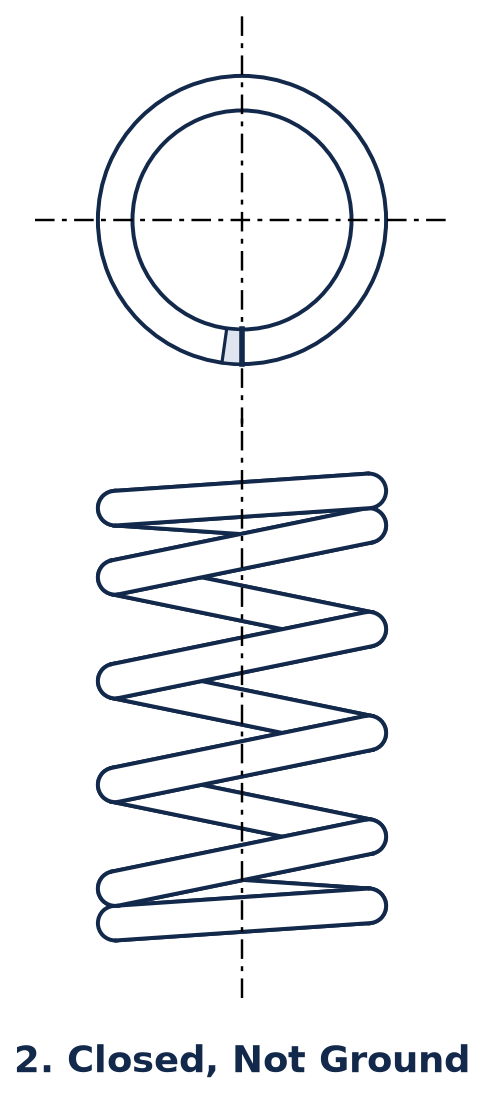
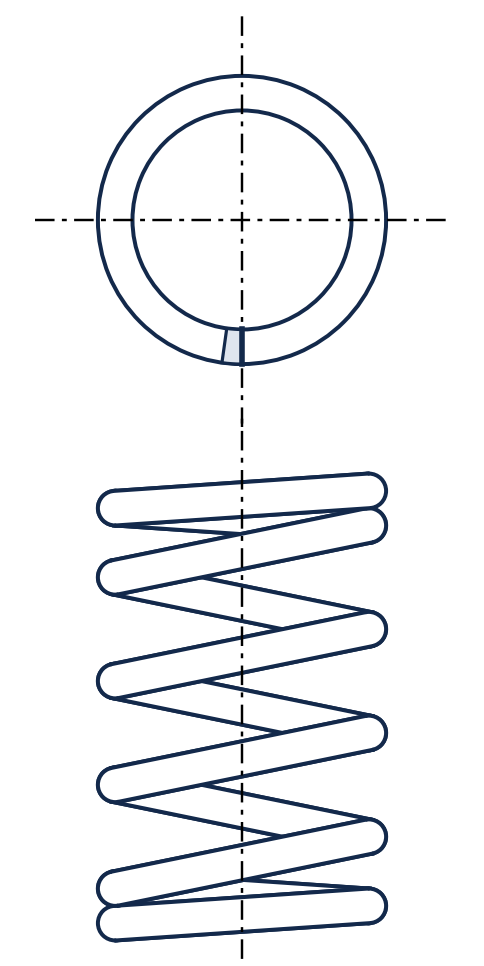
Show one title on smaller end diagrams.

diff --git a/tests/test-help.js b/tests/test-help.js
@@ -170,6 +170,8 @@ const ends = Help.topic("ends").body;
   assert(ends.indexOf("assets/help/" + file) >= 0, "End help shows " + file);
 });
 assert((ends.match(/<img/g) || []).length === 4, "End help has four pictures");
+assert((ends.match(/<figcaption>/g) || []).length === 4, "Each end diagram has one title");
+assert((ends.match(/<h3/g) || []).length === 0, "End diagrams do not add a second heading");
 assert(ends.indexOf("<svg") === -1, "End help uses Yuan's photographs");
 assert(ends.indexOf("The diagrams show the four end types.") >= 0, "End help leaves the explanation to the diagrams");
 assert(ends.indexOf('class="help-zoom"') >= 0 && diameters.indexOf('class="help-zoom"') >= 0,
@@ -182,6 +184,7 @@ const sw = fs.readFileSync(path.join(root, "sw.js"), "utf8");
 const css = fs.readFileSync(path.join(root, "css/app.css"), "utf8");
 assert(css.indexOf(".help-diagram") >= 0 && css.indexOf("max-width: 100%") >= 0 && css.indexOf("height: auto") >= 0,
   "Help images scale to the window width");
+assert(css.indexOf(".end-grid .help-diagram { width: 65%") >= 0, "End diagrams are about two thirds of the previous size");
 assert(css.indexOf(".help-nomenclature th") >= 0 && css.indexOf("position: sticky") >= 0 && css.indexOf(".help-table-scroll") >= 0,
   "The nomenclature table keeps a sticky header and scrolls");
 const materials = Help.topic("materials").body;

diff --git a/css/app.css b/css/app.css
@@ -320,9 +320,10 @@ html[data-resolved="dark"] .mode-chart .mode-band { fill: rgba(226, 181, 106, 0.
 .help-solid { fill: none; stroke: var(--ink); stroke-width: 3; }
 .help-pocket { fill: none; stroke: var(--muted); stroke-width: 2; stroke-dasharray: 5 4; }
 .help-rod { fill: var(--gold-soft); stroke: var(--gold); stroke-width: 2; }
-.end-grid { display: grid; grid-template-columns: 1fr 1fr; gap: 8px; margin-bottom: 10px; }
-.end-grid figure { margin: 0; }
-.end-grid figcaption { font-size: 0.82rem; font-weight: 700; margin-bottom: 4px; }
+.end-grid { display: grid; grid-template-columns: 1fr 1fr; gap: 12px; margin-bottom: 10px; }
+.end-grid figure { margin: 0; text-align: center; }
+.end-grid figcaption { font-size: 0.95rem; font-weight: 650; margin: 0 0 6px; text-align: center; }
+.end-grid .help-diagram { width: 65%; max-width: 65%; margin: 0 auto; }
 .lead {
   margin: 0 0 14px;
   color: var(--muted);

diff --git a/sw.js b/sw.js
@@ -1,5 +1,5 @@
 /* Helical Spring Designer service worker — cache app shell for offline use */
-const CACHE = "spring-calc-v65";
+const CACHE = "spring-calc-v66";
 const ASSETS = [
   "./",
   "./index.html",
